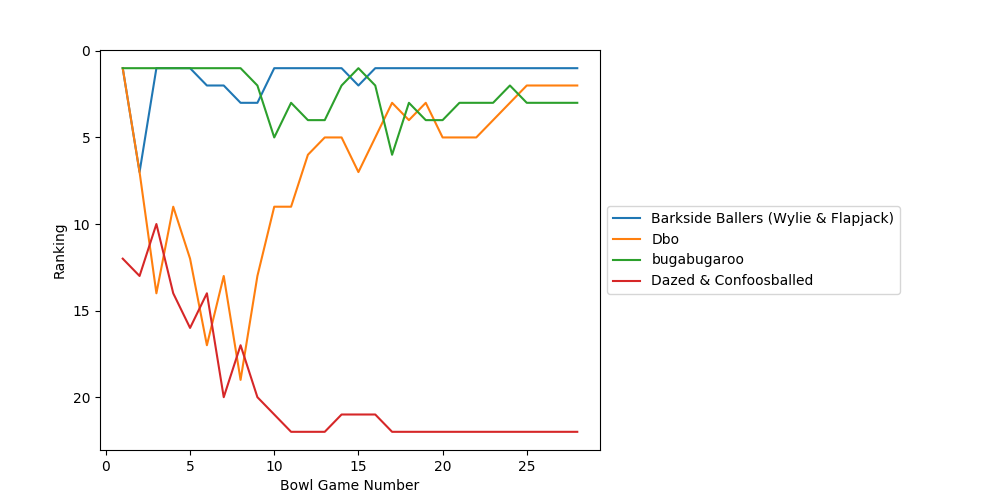
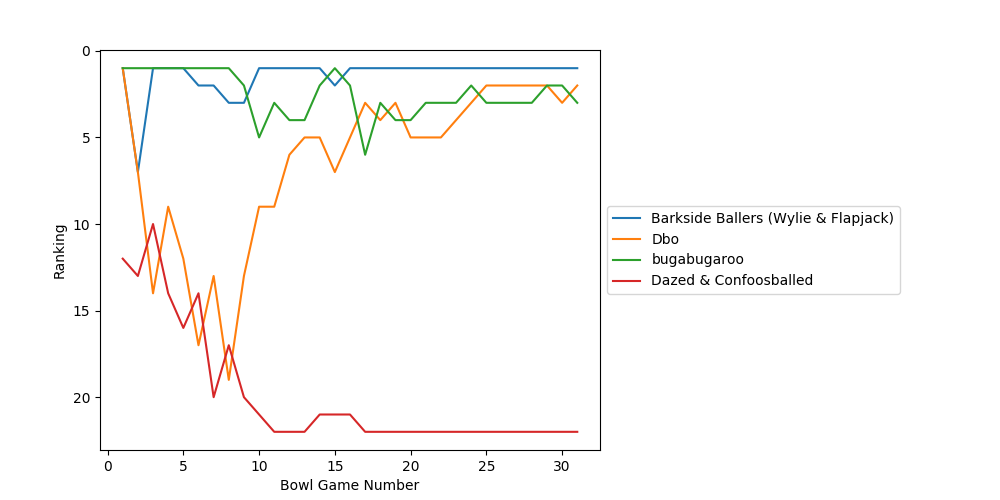
12-29 update highlighted

diff --git a/bowl_pool/2023-2024/results.html b/bowl_pool/2023-2024/results.html
@@ -1208,33 +1208,117 @@ ul.auto-toc {
 <td>1.0</td>
 <td>0.0</td>
 </tr>
+<tr><td>29</td>
+<td>Gator Bowl</td>
+<td>Clemson</td>
+<td>Kentucky</td>
+<td>7.0</td>
+<td>1.0</td>
+<td>0.0</td>
+<td>1.0</td>
+<td>0.0</td>
+<td>1.0</td>
+<td>1.0</td>
+<td>1.0</td>
+<td>0.0</td>
+<td>1.0</td>
+<td>0.0</td>
+<td>1.0</td>
+<td>1.0</td>
+<td>0.0</td>
+<td>1.0</td>
+<td>1.0</td>
+<td>1.0</td>
+<td>1.0</td>
+<td>0.0</td>
+<td>0.0</td>
+<td>1.0</td>
+<td>0.0</td>
+<td>1.0</td>
+</tr>
+<tr><td>30</td>
+<td>Sun Bowl</td>
+<td>Notre Dame</td>
+<td>Oregon State</td>
+<td>10.5</td>
+<td>1.0</td>
+<td>0.0</td>
+<td>0.0</td>
+<td>0.0</td>
+<td>1.0</td>
+<td>1.0</td>
+<td>1.0</td>
+<td>0.0</td>
+<td>2.0<sup>*</sup></td>
+<td>0.0</td>
+<td>1.0</td>
+<td>1.0</td>
+<td>1.0</td>
+<td>1.0</td>
+<td>1.0</td>
+<td>2.0<sup>*</sup></td>
+<td>1.0</td>
+<td>0.0</td>
+<td>1.0</td>
+<td>0.0</td>
+<td>1.0</td>
+<td>1.0</td>
+</tr>
+<tr><td>31</td>
+<td>LibertyBowl</td>
+<td>Iowa State</td>
+<td>Memphis</td>
+<td>6.5</td>
+<td>1.5</td>
+<td>1.5</td>
+<td>0.0</td>
+<td>1.5</td>
+<td>0.0</td>
+<td>0.0</td>
+<td>0.0</td>
+<td>0.0</td>
+<td>0.0</td>
+<td>1.5</td>
+<td>0.0</td>
+<td>0.0</td>
+<td>2.5<sup>*</sup></td>
+<td>1.5</td>
+<td>1.5</td>
+<td>0.0</td>
+<td>0.0</td>
+<td>1.5</td>
+<td>1.5</td>
+<td>0.0</td>
+<td>1.5</td>
+<td>0.0</td>
+</tr>
 <tr><td><strong>Totals</strong></td>
 <td>&nbsp;</td>
 <td>&nbsp;</td>
 <td>&nbsp;</td>
 <td>&nbsp;</td>
-<td><strong>18.5</strong></td>
-<td><strong>14.25</strong></td>
-<td><strong>14.75</strong></td>
-<td><strong>29.5</strong></td>
-<td><strong>17.25</strong></td>
-<td><strong>13.75</strong></td>
-<td><strong>23.5</strong></td>
+<td><strong>22.0</strong></td>
+<td><strong>15.75</strong></td>
+<td><strong>15.75</strong></td>
+<td><strong>31.0</strong></td>
+<td><strong>19.25</strong></td>
+<td><strong>15.75</strong></td>
+<td><strong>25.5</strong></td>
 <td><strong>16.25</strong></td>
-<td><strong>8.0</strong></td>
-<td><strong>24.5</strong></td>
-<td><strong>15.0</strong></td>
-<td><strong>15.25</strong></td>
-<td><strong>21.5</strong></td>
-<td><strong>18.25</strong></td>
-<td><strong>20.25</strong></td>
-<td><strong>18.5</strong></td>
-<td><strong>16.5</strong></td>
-<td><strong>21.5</strong></td>
-<td><strong>20.75</strong></td>
-<td><strong>14.0</strong></td>
+<td><strong>11.0</strong></td>
+<td><strong>26.0</strong></td>
 <td><strong>17.0</strong></td>
-<td><strong>12.25</strong></td>
+<td><strong>17.25</strong></td>
+<td><strong>25.0</strong></td>
+<td><strong>21.75</strong></td>
+<td><strong>23.75</strong></td>
+<td><strong>21.5</strong></td>
+<td><strong>18.5</strong></td>
+<td><strong>23.0</strong></td>
+<td><strong>23.25</strong></td>
+<td><strong>15.0</strong></td>
+<td><strong>19.5</strong></td>
+<td><strong>14.25</strong></td>
 </tr>
 </tbody>
 </table>

diff --git a/bowl_pool/2023-2024/rankings.html b/bowl_pool/2023-2024/rankings.html
@@ -364,32 +364,32 @@ ul.auto-toc {
 
 
 <div class="line-block">
-<div class="line"><em>Last updated:  2023-12-29 19:20:19</em></div>
-<div class="line"><em>Last bowl scored:  Alamo Bowl (Arizona vs. Oklahoma)</em></div>
+<div class="line"><em>Last updated:  2023-12-29 19:30:43</em></div>
+<div class="line"><em>Last bowl scored:  LibertyBowl (Iowa State vs. Memphis)</em></div>
 </div>
 <div class="line-block">
-<div class="line">1. <strong>Barkside Ballers (Wylie &amp; Flapjack) 29.5</strong></div>
-<div class="line">2. <strong>Dbo 24.5</strong></div>
-<div class="line">3. <strong>bugabugaroo 23.5</strong></div>
-<div class="line">4. Kylo Bad Dog 21.5</div>
-<div class="line">4. Sascha Picks Dogs 21.5</div>
-<div class="line">6. SEC Shipley 20.75</div>
-<div class="line">7. MamaDAWG 20.25</div>
-<div class="line">8. #MamaBear 18.5</div>
-<div class="line">8. Manda Panda 18.5</div>
-<div class="line">10. LadyLonghorn 18.25</div>
-<div class="line">11. Bear-in-Law 17.25</div>
-<div class="line">12. The New Guy 17.0</div>
-<div class="line">13. Rando Cal Rece Ian 16.5</div>
-<div class="line">14. COOKIES 16.25</div>
-<div class="line">15. GlamKam 15.25</div>
-<div class="line">16. em&amp;em 15.0</div>
-<div class="line">17. Badgers Rock! 14.75</div>
-<div class="line">18. Aggie Austin 14.25</div>
-<div class="line">19. Sir Fluffy McFlufferson 14.0</div>
-<div class="line">20. Big 12 Bibby 13.75</div>
-<div class="line">21. WD50 12.25</div>
-<div class="line">22. <strong>Dazed &amp; Confoosballed 8.0</strong></div>
+<div class="line">1. <strong>Barkside Ballers (Wylie &amp; Flapjack) 31.0</strong></div>
+<div class="line">2. <strong>Dbo 26.0</strong></div>
+<div class="line">3. <strong>bugabugaroo 25.5</strong></div>
+<div class="line">4. Kylo Bad Dog 25.0</div>
+<div class="line">5. MamaDAWG 23.75</div>
+<div class="line">6. SEC Shipley 23.25</div>
+<div class="line">7. Sascha Picks Dogs 23.0</div>
+<div class="line">8. #MamaBear 22.0</div>
+<div class="line">9. LadyLonghorn 21.75</div>
+<div class="line">10. Manda Panda 21.5</div>
+<div class="line">11. The New Guy 19.5</div>
+<div class="line">12. Bear-in-Law 19.25</div>
+<div class="line">13. Rando Cal Rece Ian 18.5</div>
+<div class="line">14. GlamKam 17.25</div>
+<div class="line">15. em&amp;em 17.0</div>
+<div class="line">16. COOKIES 16.25</div>
+<div class="line">17. Aggie Austin 15.75</div>
+<div class="line">17. Badgers Rock! 15.75</div>
+<div class="line">17. Big 12 Bibby 15.75</div>
+<div class="line">20. Sir Fluffy McFlufferson 15.0</div>
+<div class="line">21. WD50 14.25</div>
+<div class="line">22. <strong>Dazed &amp; Confoosballed 11.0</strong></div>
 </div>
 </div>
 </body>

diff --git a/bowl_pool/2023-2024/index.html b/bowl_pool/2023-2024/index.html
@@ -365,8 +365,8 @@ ul.auto-toc {
 
 <p><strong>2023-2024 Bowl Pool</strong></p>
 <div class="line-block">
-<div class="line"><em>Last updated:  2023-12-29 19:20:19</em></div>
-<div class="line"><em>Last bowl scored:  Alamo Bowl (Arizona vs. Oklahoma)</em></div>
+<div class="line"><em>Last updated:  2023-12-29 19:30:43</em></div>
+<div class="line"><em>Last bowl scored:  LibertyBowl (Iowa State vs. Memphis)</em></div>
 </div>
 <ul class="simple">
 <li><a class="reference external" href="rankings.html">Rankings</a> (<a class="reference external" href="rankings.csv">csv</a>)</li>
